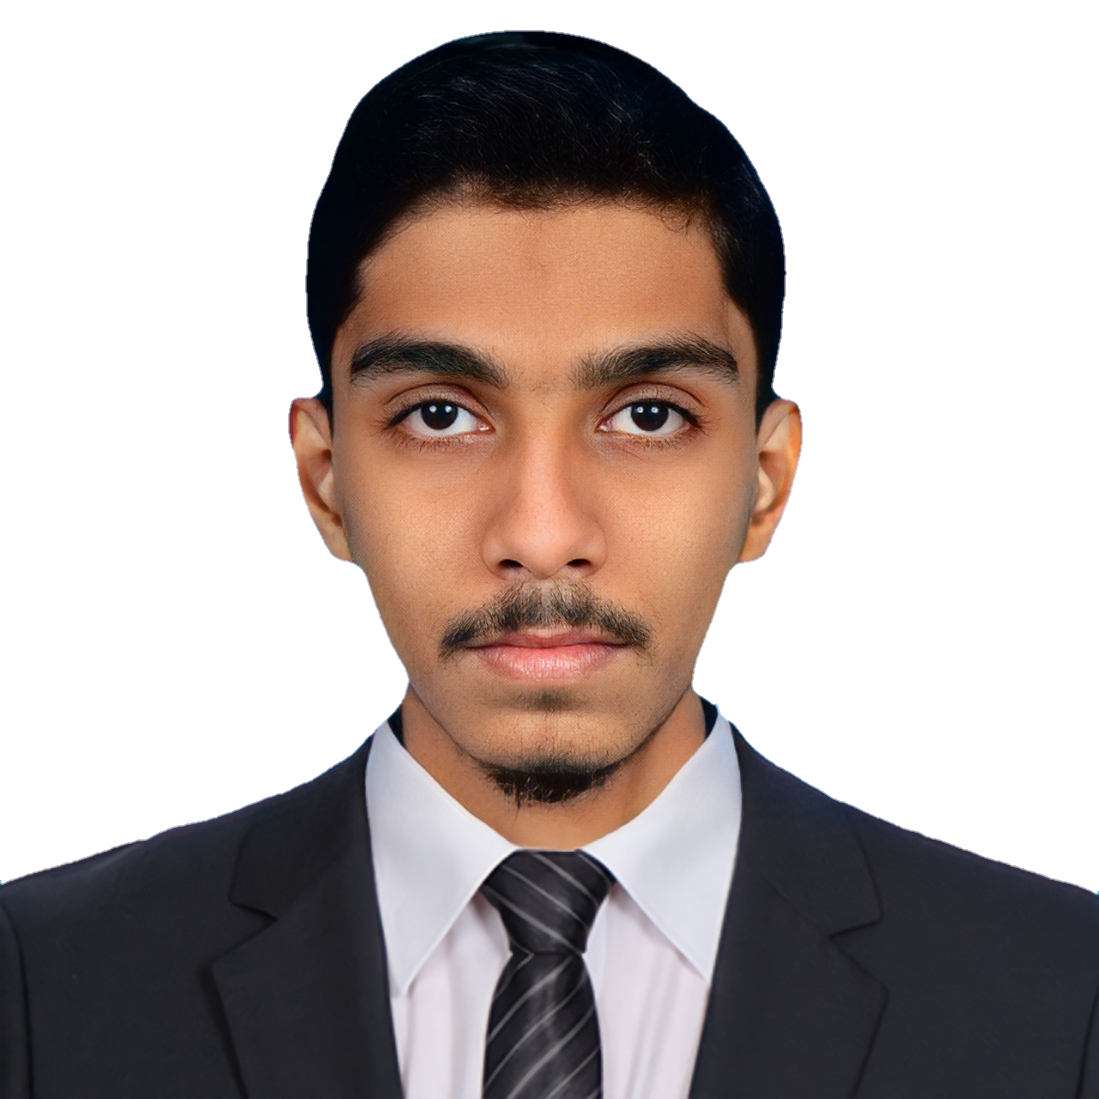
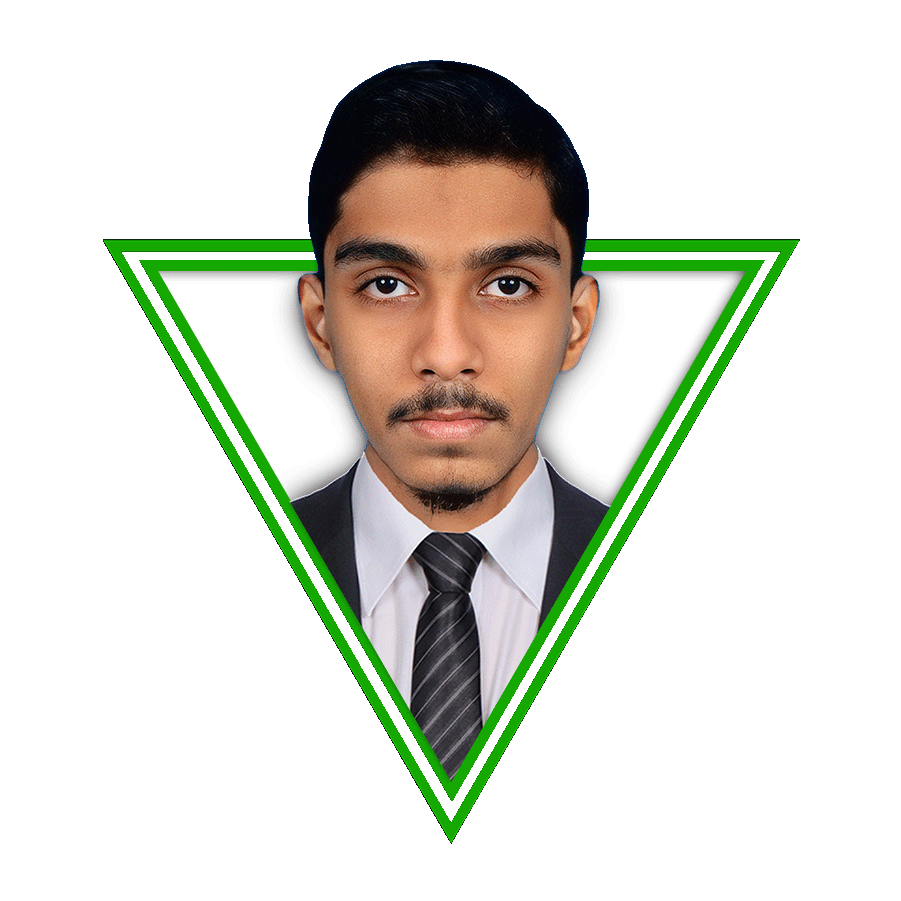
..

diff --git a/css/style.css b/css/style.css
@@ -269,7 +269,7 @@ header .follow a:hover {
 }
 
 .home .content .info {
-    font-size: 2.5rem;
+    font-size: 2.2rem;
     color: var(--black);
     padding: .5rem 0;
     text-transform: none;
@@ -280,15 +280,30 @@ header .follow a:hover {
 }
 
 .home .content .text {
-    font-size: 1.7rem;
+    font-size: 1.5rem;
     color: var(--black);
-    padding: .5rem 0;
+    padding: .02rem 0;
+}
+
+.home .image .animate {
+    animation: zoom 4s ease-in-out infinite alternate;
+    transform-origin: center center;
+}
+
+@keyframes zoom {
+    from {
+        transform: scale(1);
+    }
+
+    to {
+        transform: scale(1.1);
+    }
 }
 
 .about .row-1 {
     display: flex;
     flex-wrap: wrap;
-    gap: 1.5rem;
+    gap: 1.2rem;
     padding-bottom: 2rem;
 }
 
@@ -300,10 +315,39 @@ header .follow a:hover {
     height: 100%;
     width: 100%;
     object-fit: cover;
-    border: 1rem solid #fff;
-    border-radius: .5rem;
-    box-shadow: 0 .5rem 1rem rgba(0, 0, 0, .1);
+    /* border: 1rem solid #fff;
+    border-radius: .5rem; */
+    /* box-shadow: 0 .5rem 1rem rgba(0, 0, 0, .1); */
+    animation: vibrate 4s cubic-bezier(0.455, 0.03, 0.515, 0.955) infinite;
+    transform-origin: center center;
 }
+
+@keyframes vibrate {
+    0% {
+        transform: translate(0);
+    }
+
+    20% {
+        transform: translate(-2px, 2px);
+    }
+
+    40% {
+        transform: translate(2px, -2px);
+    }
+
+    60% {
+        transform: translate(0, 4px);
+    }
+
+    80% {
+        transform: translate(-2px, -2px);
+    }
+
+    100% {
+        transform: translate(0);
+    }
+}
+
 
 .about .row-1 .content {
     flex: 1 1 50rem;
@@ -386,7 +430,7 @@ h5 {
     margin-bottom: 10px;
 }
 
-p{
+p {
     text-transform: none;
     font-size: medium;
 }

diff --git a/index.html b/index.html
@@ -80,7 +80,7 @@
         </div>
 
         <div class="image">
-            <img src="images/Picsart_23-02-02_09-19-42-801.png" alt="">
+            <img src="images/Picsart_23-02-02_09-19-42-801.png" class="animate" alt="">
         </div>
     </section>
 
